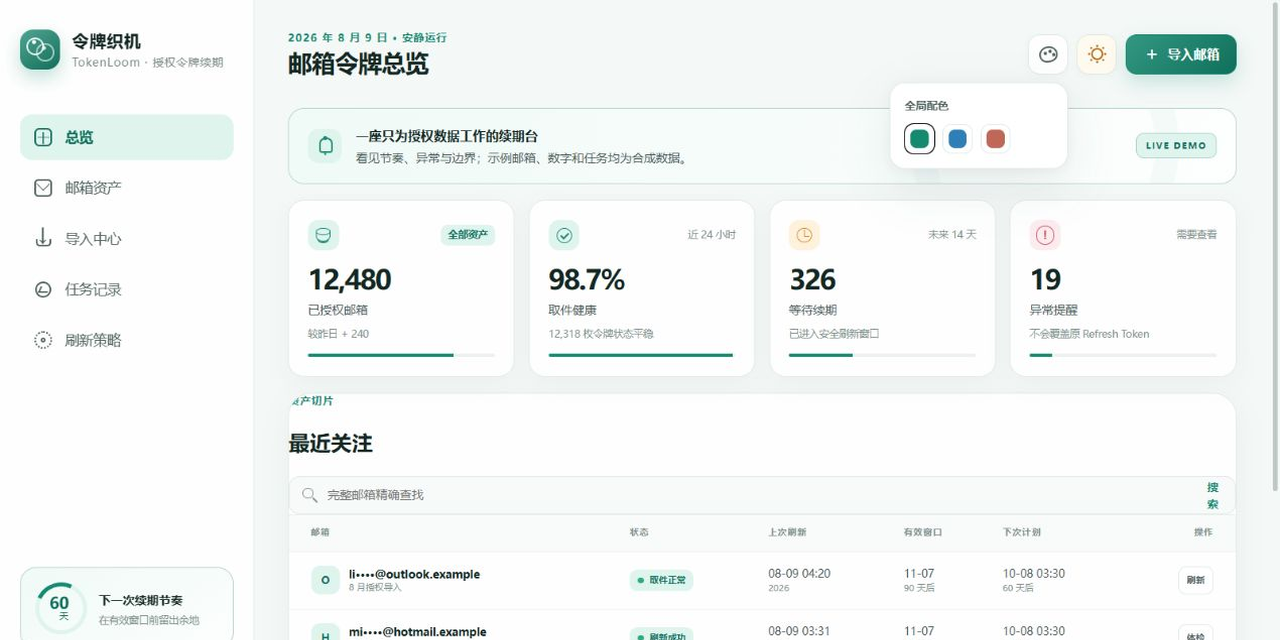
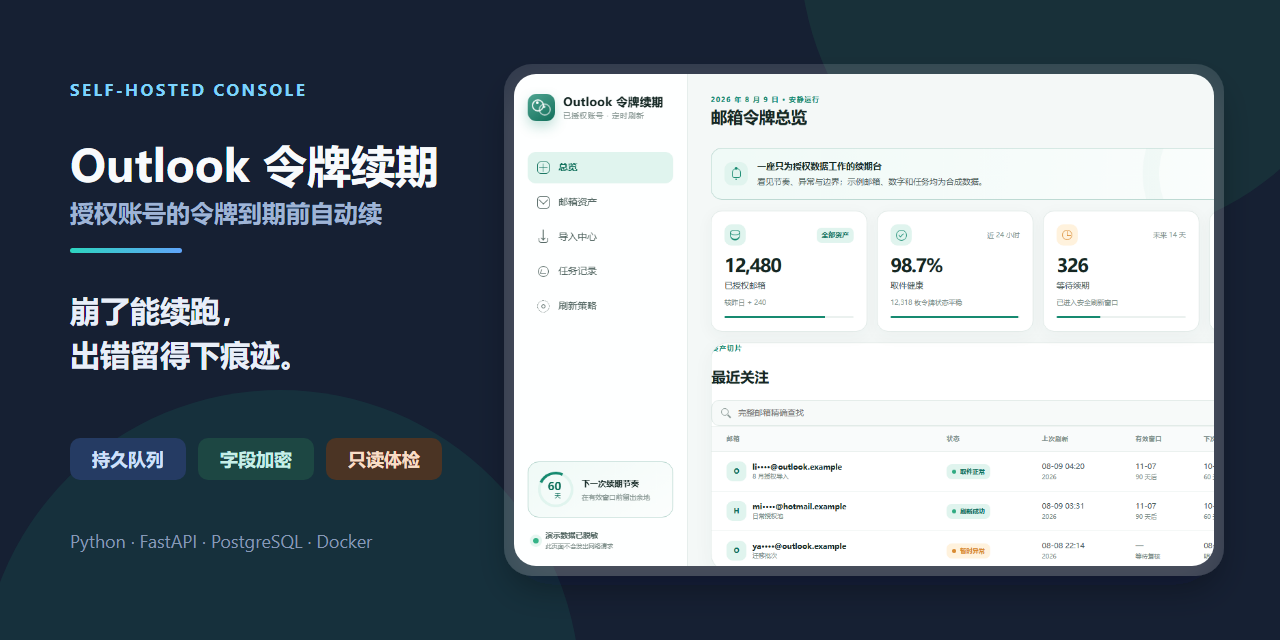
docs: 重写全部面向读者的文案（主页、README、文档措辞与命名）

diff --git a/demo/index.html b/demo/index.html
@@ -6,7 +6,7 @@
   <meta name="color-scheme" content="light dark">
   <meta name="theme-color" content="#168a70">
   <meta http-equiv="Content-Security-Policy" content="default-src 'self'; script-src 'self'; style-src 'self'; img-src 'self' data:; connect-src 'none'; object-src 'none'; base-uri 'none'; frame-ancestors 'none'">
-  <title>令牌织机 · TokenLoom 演示</title>
+  <title>Outlook 令牌续期 · 演示</title>
   <link rel="icon" href="./assets/favicon.svg" type="image/svg+xml">
   <link rel="icon" href="./assets/favicon-32.png" sizes="32x32" type="image/png">
   <link rel="shortcut icon" href="./assets/favicon.ico">
@@ -20,7 +20,7 @@
     <aside class="sidebar" id="sidebar">
       <a class="brand" href="./" aria-label="TokenLoom 演示首页">
         <span class="brand-mark"><i></i><i></i><i></i></span>
-        <span><strong>令牌织机</strong><small>TokenLoom · 授权令牌续期</small></span>
+        <span><strong>Outlook 令牌续期</strong><small>已授权账号 · 定时刷新</small></span>
       </a>
       <nav class="side-nav" aria-label="演示导航">
         <button class="nav-item active" data-demo-action="总览"><span class="nav-icon grid-icon"></span>总览</button>
@@ -83,7 +83,7 @@
           </section>
         </div>
         <aside class="side-column">
-          <section class="panel side-panel"><div class="panel-head"><div><p class="kicker">任务流</p><h2>正在织入</h2></div></div><article class="job-card"><div class="job-card-head"><span class="job-kind">刷</span><div><b>到期账号 · 安全续期</b><small>240 / 326 · 成功 238 · 失败 2</small></div><span class="job-state running">进行中</span></div><progress class="job-progress" max="100" value="73.6"></progress><div class="job-stats"><span>73.6%</span><span>预计 2 分钟</span></div></article><article class="job-card"><div class="job-card-head"><span class="job-kind">检</span><div><b>授权样本 · 只读取件</b><small>40 / 40 · 成功 40</small></div><span class="job-state completed">已完成</span></div><progress class="job-progress" max="100" value="100"></progress></article></section>
+          <section class="panel side-panel"><div class="panel-head"><div><p class="kicker">任务流</p><h2>正在执行</h2></div></div><article class="job-card"><div class="job-card-head"><span class="job-kind">刷</span><div><b>到期账号 · 安全续期</b><small>240 / 326 · 成功 238 · 失败 2</small></div><span class="job-state running">进行中</span></div><progress class="job-progress" max="100" value="73.6"></progress><div class="job-stats"><span>73.6%</span><span>预计 2 分钟</span></div></article><article class="job-card"><div class="job-card-head"><span class="job-kind">检</span><div><b>授权样本 · 只读取件</b><small>40 / 40 · 成功 40</small></div><span class="job-state completed">已完成</span></div><progress class="job-progress" max="100" value="100"></progress></article></section>
         </aside>
       </section>
       <p class="demo-footnote">TokenLoom 与 Microsoft 无隶属或背书关系。仅用于你拥有或明确获授权管理的账号与令牌。</p>

diff --git a/app/templates/login.html b/app/templates/login.html
@@ -23,7 +23,7 @@
   <div class="login-aurora login-aurora-b"></div>
   <main class="login-shell">
     <section class="login-story" aria-label="产品介绍">
-      <a class="brand brand-large" href="/login" aria-label="令牌织机 TokenLoom">
+      <a class="brand brand-large" href="/login" aria-label="Outlook 令牌续期">
         <span class="brand-mark"><i></i><i></i><i></i></span>
         <span><strong>{{ app_name }}</strong><small>Authorized token renewal, woven calmly</small></span>
       </a>

diff --git a/app/config.py b/app/config.py
@@ -35,7 +35,7 @@ def _csv(name: str, default: str) -> frozenset[str]:
 @dataclass(frozen=True, slots=True)
 class Settings:
     app_env: str = os.getenv("APP_ENV", "development").strip().lower()
-    app_name: str = os.getenv("APP_NAME", "令牌织机 · TokenLoom")
+    app_name: str = os.getenv("APP_NAME", "Outlook 令牌续期")
     database_url: str = os.getenv(
         "DATABASE_URL", f"sqlite+aiosqlite:///{(BASE_DIR / 'data' / 'dev.db').as_posix()}"
     )

diff --git a/app/services.py b/app/services.py
@@ -21,7 +21,7 @@ from .models import Account, AppSetting, AuditEvent, Job, utcnow
 
 TOKEN_URL = "https://login.live.com/oauth20_token.srf"
 REDIRECT_URI = "https://login.live.com/oauth20_desktop.srf"
-USER_AGENT = "TokenLoom/1.0 (+https://github.com/ferretgeek/TokenLoom)"
+USER_AGENT = "TokenLoom/1.0 (+https://github.com/ferretgeek/outlook-token-keeper)"
 MAX_OAUTH_RESPONSE_BYTES = 64 * 1024
 PERMANENT_ERRORS = {
     "invalid_grant",

diff --git a/README_EN.md b/README_EN.md
@@ -1,30 +1,40 @@
-# TokenLoom / 令牌织机 — Outlook OAuth Token Renewal
+# Outlook token keeper
 
-[![CI](https://github.com/ferretgeek/TokenLoom/actions/workflows/ci.yml/badge.svg)](https://github.com/ferretgeek/TokenLoom/actions/workflows/ci.yml)
-[![CodeQL](https://github.com/ferretgeek/TokenLoom/actions/workflows/codeql.yml/badge.svg)](https://github.com/ferretgeek/TokenLoom/actions/workflows/codeql.yml)
-[![Release](https://img.shields.io/github/v/release/ferretgeek/TokenLoom?style=flat-square)](https://github.com/ferretgeek/TokenLoom/releases)
+[中文](README.md) · English
+
+[![CI](https://github.com/ferretgeek/outlook-token-keeper/actions/workflows/ci.yml/badge.svg)](https://github.com/ferretgeek/outlook-token-keeper/actions/workflows/ci.yml)
+[![CodeQL](https://github.com/ferretgeek/outlook-token-keeper/actions/workflows/codeql.yml/badge.svg)](https://github.com/ferretgeek/outlook-token-keeper/actions/workflows/codeql.yml)
+[![Release](https://img.shields.io/github/v/release/ferretgeek/outlook-token-keeper?style=flat-square)](https://github.com/ferretgeek/outlook-token-keeper/releases)
 [![License: MIT](https://img.shields.io/badge/License-MIT-168a70.svg?style=flat-square)](LICENSE)
 
-> Weave authorized token renewal, health checks, and exceptions into one visible rhythm.
+[![Interface preview](docs/images/dashboard.png)](https://ferretgeek.github.io/outlook-token-keeper/)
 
-[![TokenLoom interface preview](docs/images/dashboard.png)](https://ferretgeek.github.io/TokenLoom/)
+[Live demo](https://ferretgeek.github.io/outlook-token-keeper/) · [Deployment](docs/DEPLOYMENT_EN.md) · [Security policy](SECURITY.md)
 
-[Live demo](https://ferretgeek.github.io/TokenLoom/) · [中文](README.md) · [Deployment](docs/DEPLOYMENT_EN.md) · [Security](SECURITY.md)
+> Renew a batch of authorized Outlook OAuth tokens before they expire, and verify read-only that the mailboxes still connect.
 
-TokenLoom is a self-hosted console for managing user-authorized Microsoft Outlook / Hotmail OAuth2 refresh tokens. It neither supplies accounts or tokens nor bypasses Microsoft authorization, risk controls, or terms.
+## Why this exists
 
-## What it does
+Microsoft OAuth refresh tokens don't last forever: leave one unused long enough and it lapses, and certain account-side changes invalidate it too.
 
-- Streams pasted or TXT imports into durable PostgreSQL jobs that survive worker restarts.
-- Renews one, selected, due, or snapshotted account ranges and runs read-only IMAP XOAUTH2 health checks.
-- Immediately discards the legacy password field; encrypts email, Client ID, and Refresh Token with AES-256-GCM bound to the account identity and field name; exposes masked addresses only. Legacy ciphertexts are upgraded in bounded startup batches.
-- Uses fixed Microsoft OAuth and IMAP destinations, bounded response and input sizes, keyset pagination, batch processing, disk headroom, and retention cleanup.
-- Authenticates protected mutation requests and enforces route-specific body limits before JSON, form, or multipart parsing; login attempts are atomically reserved before Argon2 work.
-- Provides jade, sky, sunset, and exact `#17191d` graphite themes, persisted globally across login and console views.
+With one or two accounts you just click renew. With dozens or hundreds of **explicitly authorized** accounts it's a different problem — you need to know which are expiring, which already failed, and which renewed successfully but whose mailbox no longer connects. And it has to run on a schedule, resume after a crash, and leave a trail when something goes wrong.
 
-## Local QA
+This is that schedule: **import, renew on a timer, health-check read-only, and record exceptions** — all on your own server.
 
-Python 3.11+ is required:
+> **Use it only for accounts and tokens you own or are explicitly authorized to administer.** It doesn't harvest accounts, doesn't supply tokens, and doesn't bypass Microsoft's authorization, risk controls, or terms.
+
+## What you get
+
+- **A recoverable workflow** — streaming TXT import, durable PostgreSQL job queue, single / selected / expiring-range job modes, and workers that resume after restart.
+- **A restrained data plane** — legacy plaintext mailbox passwords are **discarded immediately** after parsing; addresses, client IDs, and refresh tokens are AES-256-GCM encrypted, and lists show masked addresses only.
+- **Real but bounded checks** — refresh against fixed Microsoft OAuth endpoints; IMAP XOAUTH2 opens the inbox read-only and **never reads or displays message bodies.**
+- **Built for large sets** — primary-key cursor paging, job snapshots, batching, upload / line / response ceilings, free-disk checks, and history cleanup.
+- **Security checks up front** — write endpoints validate session and CSRF **before parsing the body** and cap request size per endpoint; login attempts are atomically reserved, and the expensive hash has a process-wide concurrency limit.
+- **Four global themes** — Emerald, Azure, Sunset, and exact `#17191d` graphite, persisted across the login screen and the console.
+
+## Local preview
+
+Requires Python 3.11+:
 
 ```powershell
 python -m venv .venv
@@ -32,16 +42,18 @@ python -m venv .venv
 .\.venv\Scripts\python scripts\run_qa.py
 ```
 
-Open `http://127.0.0.1:8787/`. The temporary admin key is written only to the ignored `data/qa-*-admin-key.txt` path. Stop and clean the local run with:
+Open `http://127.0.0.1:8787/`. The temporary admin key is written only to a git-ignored `data/qa-*-admin-key.txt`.
+
+Clean up afterwards:
 
 ```powershell
 .\.venv\Scripts\python scripts\stop_qa.py
 .\.venv\Scripts\python scripts\cleanup_qa.py
 ```
 
-## Docker Compose
+## Docker deployment
 
-Generate secrets on a trusted machine, then start the loopback-bound web app, worker, and PostgreSQL services:
+Generate the admin key and `.env` on a trusted machine first, then start the loopback-bound web, worker, and PostgreSQL services:
 
 ```powershell
 .\.venv\Scripts\python scripts\generate_admin_key.py --output .\admin-key.txt
@@ -49,15 +61,34 @@ Generate secrets on a trusted machine, then start the loopback-bound web app, wo
 docker compose up -d --build
 ```
 
-Visit `http://127.0.0.1:8787/`. A public deployment must sit behind a trusted HTTPS reverse proxy and set `COOKIE_SECURE`, `TRUST_PROXY_HEADERS`, `TRUSTED_PROXY_IPS`, and `ALLOWED_HOSTS` explicitly. See [Deployment](docs/DEPLOYMENT_EN.md) for Docker and Ubuntu systemd instructions.
+Then open `http://127.0.0.1:8787/`.
 
-## Security boundary
+**A public server must sit behind a trusted HTTPS reverse proxy**, with `COOKIE_SECURE`, `TRUST_PROXY_HEADERS`, `TRUSTED_PROXY_IPS`, and `ALLOWED_HOSTS` set to match. The Ubuntu 24.04 systemd setup, updates, and backups are covered in the [deployment guide](docs/DEPLOYMENT_EN.md).
 
-TokenLoom reduces exposure from a database-only leak, but it cannot protect data after the host or application process is compromised. Keep the field-encryption key separate from database backups, use one worker, rotate the session secret to revoke every session, and never put production data in tests or screenshots.
+## Worth noting technically
 
-Use the project only for accounts and tokens you own or are explicitly authorized to administer. TokenLoom is independent of and not endorsed by Microsoft.
+**Encryption binds identity and field name.** Account ciphertexts use "account identity + field name" as authenticated context (AEAD AAD) — so even with database access, nobody can move account A's ciphertext into account B's field and have it accepted. Legacy ciphertexts are upgraded in **bounded startup batches** rather than pulling the whole table into memory.
 
-## Quality gate
+**Legacy plaintext passwords are discarded immediately.** When an import carries a mailbox password from an old format, it's dropped right after parsing — never stored, never logged. This project only wants refresh tokens.
+
+**There is no configurable outbound target.** OAuth and IMAP destinations are pinned to Microsoft endpoints. A tool that can be configured to send your tokens somewhere arbitrary is a backdoor.
+
+**Security checks come before body parsing.** Write endpoints validate the session and CSRF, cap request size per endpoint, and **then** parse. In the other order, one unauthenticated large request could consume your memory.
+
+**Login attempts are atomically reserved.** Counters reserve atomically to prevent concurrent rate-limit bypass, and the expensive password hash has a process-wide concurrency limit so the login endpoint can't be used to saturate the CPU.
+
+**Paging designed for millions of rows.** Lists use primary-key cursor paging rather than `OFFSET`, jobs carry snapshots, imports are batched, and upload size, line length, and response size all have ceilings, alongside free-disk checks and periodic history cleanup.
+
+Architecture and capacity boundaries are in [docs/ARCHITECTURE.md](docs/ARCHITECTURE.md); privacy boundaries in [PRIVACY.md](PRIVACY.md).
+
+## What it doesn't do
+
+- It doesn't harvest accounts, supply tokens, or obtain authorization on your behalf.
+- It doesn't bypass Microsoft's authorization, risk controls, or terms.
+- It doesn't read, store, or display message bodies (the health check only confirms the inbox can be opened).
+- It neither accepts nor retains mailbox passwords.
+
+## Pre-release checks
 
 ```powershell
 .\.venv\Scripts\python -m ruff format --check app scripts tests
@@ -66,8 +97,12 @@ Use the project only for accounts and tokens you own or are explicitly authorize
 .\.venv\Scripts\python -m pip_audit -r requirements.txt --progress-spinner off
 ```
 
-See [Privacy](PRIVACY.md), [Architecture](docs/ARCHITECTURE.md), and [Security](SECURITY.md) for the exact data and operational boundaries.
+## More documentation
 
-## License
+[Deployment](docs/DEPLOYMENT_EN.md) · [Architecture and capacity](docs/ARCHITECTURE.md) · [Privacy](PRIVACY.md) · [Release audit](docs/发布审计.md) · [Changelog](CHANGELOG.md) · [Contributing](CONTRIBUTING.md) · [Security policy](SECURITY.md)
+
+## License and disclaimer
 
 [MIT](LICENSE). Direct dependency licenses are summarized in [THIRD_PARTY.md](THIRD_PARTY.md).
+
+Independent project with no affiliation with, authorization from, or endorsement by Microsoft.

diff --git a/README.md b/README.md
@@ -1,27 +1,36 @@
-# 令牌织机 / TokenLoom — Outlook OAuth 令牌续期
+# Outlook 令牌续期
 
-[![CI](https://github.com/ferretgeek/TokenLoom/actions/workflows/ci.yml/badge.svg)](https://github.com/ferretgeek/TokenLoom/actions/workflows/ci.yml)
-[![CodeQL](https://github.com/ferretgeek/TokenLoom/actions/workflows/codeql.yml/badge.svg)](https://github.com/ferretgeek/TokenLoom/actions/workflows/codeql.yml)
-[![Release](https://img.shields.io/github/v/release/ferretgeek/TokenLoom?style=flat-square)](https://github.com/ferretgeek/TokenLoom/releases)
+中文 · [English](README_EN.md)
+
+[![CI](https://github.com/ferretgeek/outlook-token-keeper/actions/workflows/ci.yml/badge.svg)](https://github.com/ferretgeek/outlook-token-keeper/actions/workflows/ci.yml)
+[![CodeQL](https://github.com/ferretgeek/outlook-token-keeper/actions/workflows/codeql.yml/badge.svg)](https://github.com/ferretgeek/outlook-token-keeper/actions/workflows/codeql.yml)
+[![Release](https://img.shields.io/github/v/release/ferretgeek/outlook-token-keeper?style=flat-square&label=%E7%89%88%E6%9C%AC)](https://github.com/ferretgeek/outlook-token-keeper/releases)
 [![License: MIT](https://img.shields.io/badge/License-MIT-168a70.svg?style=flat-square)](LICENSE)
 
-> 把授权令牌的续期、体检与异常，织成一张看得见的时间表。<br />
-> Weave authorized token renewal, health checks, and exceptions into one visible rhythm.
+[![界面预览](docs/images/dashboard.png)](https://ferretgeek.github.io/outlook-token-keeper/)
 
-[![TokenLoom 界面预览 / interface preview](docs/images/dashboard.png)](https://ferretgeek.github.io/TokenLoom/)
+[在线演示](https://ferretgeek.github.io/outlook-token-keeper/) · [部署指南](docs/DEPLOYMENT.md) · [安全策略](SECURITY.md)
 
-[在线演示](https://ferretgeek.github.io/TokenLoom/) · [English](README_EN.md) · [部署指南](docs/DEPLOYMENT.md) · [安全策略](SECURITY.md)
+> 一批授权过的 Outlook 账号，令牌到期前自动续，并只读验证邮箱还连得上。
 
-TokenLoom 是一个自托管的 Microsoft Outlook / Hotmail OAuth2 Refresh Token 管理台。它面向你拥有或明确获授权管理的账号；不采集账号，不提供令牌，也不会绕过 Microsoft 的授权、风控或服务条款。
+## 为什么会需要它
+
+Microsoft 的 OAuth refresh token 不是永久有效的：长期不用会失效，账号侧的一些变动也会让它作废。
+
+如果你只管一两个账号，到期手动点一下就行。如果你管着几十上百个**已获明确授权**的账号，情况就不一样了——你需要知道哪些快到期、哪些已经失效、哪些续成功了但邮箱其实连不上，而且这件事得自动做、崩了能续跑、出错要留痕。
+
+这个工具就是那张时间表：**导入、定时续期、只读体检、异常记录**，全部在你自己的服务器上。
+
+> **请只用它管理你拥有或已获明确授权管理的账号。** 它不采集账号、不提供令牌，也不绕过 Microsoft 的授权、风控或服务条款。
 
 ## 你会看到什么
 
-- **可恢复的工作流：** 流式 TXT 导入、PostgreSQL 持久队列、单账号/所选/到期范围任务，以及 Worker 重启续跑。
-- **克制的数据面：** 旧格式中的邮箱密码解析后立即丢弃；邮箱、Client ID 与 Refresh Token 使用 AES-256-GCM 加密，列表只展示脱敏邮箱。
-- **真实但有边界的检查：** 固定 Microsoft OAuth 端点刷新；IMAP XOAUTH2 只读打开收件箱，不读取或展示邮件正文。
-- **百万级路径意识：** 主键游标分页、任务快照、批处理、上传/单行/响应上限、磁盘余量与历史清理。
-- **前置安全门禁：** 写接口在解析正文前验证会话与 CSRF，并按入口限制请求体；登录尝试原子预留且昂贵哈希具有进程级并发上限。
-- **四套全局主题：** 翡翠、天青、晚霞和 `#17191d` 深灰；右上角切换，登录页与控制台同步保存。
+- **可恢复的工作流** — 流式 TXT 导入、PostgreSQL 持久队列、单账号 / 所选 / 到期范围三种任务，以及 Worker 重启后续跑。
+- **克制的数据面** — 旧格式里的邮箱密码解析后**立即丢弃**；邮箱、Client ID 与 Refresh Token 用 AES-256-GCM 加密，列表只显示脱敏邮箱。
+- **真实但有边界的检查** — 固定 Microsoft OAuth 端点刷新；IMAP XOAUTH2 只读打开收件箱，**不读取也不展示邮件正文**。
+- **想到了百万级** — 主键游标分页、任务快照、批处理、上传 / 单行 / 响应上限、磁盘余量检查与历史清理。
+- **前置安全门禁** — 写接口在**解析正文之前**先验证会话与 CSRF，并按入口限制请求体；登录尝试原子预留，昂贵哈希有进程级并发上限。
+- **四套全局主题** — 翡翠、天青、晚霞和 `#17191d` 深灰；右上角切换，登录页与控制台同步保存。
 
 ## 本机预览
 
@@ -33,7 +42,9 @@ python -m venv .venv
 .\.venv\Scripts\python scripts\run_qa.py
 ```
 
-打开 `http://127.0.0.1:8787/`。临时管理员密钥只写入被 Git 忽略的 `data/qa-*-admin-key.txt`；结束后运行：
+打开 `http://127.0.0.1:8787/`。临时管理员密钥只写入被 Git 忽略的 `data/qa-*-admin-key.txt`。
+
+结束后清理：
 
 ```powershell
 .\.venv\Scripts\python scripts\stop_qa.py
@@ -42,7 +53,7 @@ python -m venv .venv
 
 ## Docker 部署
 
-先在可信电脑生成管理员密钥和 `.env`，再启动只绑定回环地址的 Web、Worker 与 PostgreSQL：
+先在可信电脑上生成管理员密钥和 `.env`，再启动只绑定回环地址的 Web、Worker 与 PostgreSQL：
 
 ```powershell
 .\.venv\Scripts\python scripts\generate_admin_key.py --output .\管理员密钥.txt
@@ -50,7 +61,32 @@ python -m venv .venv
 docker compose up -d --build
 ```
 
-浏览器访问 `http://127.0.0.1:8787/`。公网服务器必须放在受信任的 HTTPS 反向代理之后，并同步设置 `COOKIE_SECURE`、`TRUST_PROXY_HEADERS`、`TRUSTED_PROXY_IPS` 和 `ALLOWED_HOSTS`。Ubuntu 24.04 的 systemd 方案、更新与备份见[部署指南](docs/DEPLOYMENT.md)。
+浏览器访问 `http://127.0.0.1:8787/`。
+
+**公网服务器必须放在受信任的 HTTPS 反向代理之后**，并同步设置 `COOKIE_SECURE`、`TRUST_PROXY_HEADERS`、`TRUSTED_PROXY_IPS` 和 `ALLOWED_HOSTS`。Ubuntu 24.04 的 systemd 方案、更新与备份见[部署指南](docs/DEPLOYMENT.md)。
+
+## 技术上值得一提的地方
+
+**加密绑定了身份和字段名。** 账号密文把「账号身份 + 字段名」作为认证上下文（AEAD 的 AAD）——这意味着即使有人拿到数据库，也不能把 A 账号的密文搬到 B 账号的字段上冒用。旧格式密文会在启动时按**有界批次**升级，不会一次性把整库拉进内存。
+
+**旧格式里的明文密码立即丢弃。** 导入时如果遇到旧格式携带的邮箱密码，解析完直接丢掉——不入库、不进日志。这个项目只要 refresh token。
+
+**没有可配置的出站目标。** OAuth 和 IMAP 目的地写死为 Microsoft 端点。一个能被配置成"往任意地址发送你的令牌"的工具，就是一个后门。
+
+**安全检查在解析正文之前。** 写接口先验会话和 CSRF、再按入口限制请求体大小，**然后**才开始解析——顺序反过来的话，一个未认证的大请求就能直接消耗你的内存。
+
+**登录尝试是原子预留的。** 计数用原子操作预留，避免并发绕过限速；昂贵的密码哈希有进程级并发上限，防止用登录接口把 CPU 打满。
+
+**为百万行准备的分页。** 列表用主键游标分页（不是 `OFFSET`），任务带快照，导入按批处理，上传大小、单行长度和响应体积都有上限，并会检查磁盘余量、定期清理历史。
+
+架构与容量边界见 [docs/ARCHITECTURE.md](docs/ARCHITECTURE.md)，隐私边界见 [PRIVACY.md](PRIVACY.md)。
+
+## 它不做什么
+
+- 不采集账号，不提供令牌，不代你申请授权。
+- 不绕过 Microsoft 的授权、风控或服务条款。
+- 不读取、不存储、不展示邮件正文（体检只确认能否连上收件箱）。
+- 不接受也不保留邮箱密码。
 
 ## 发布前检查
 
@@ -61,23 +97,12 @@ docker compose up -d --build
 .\.venv\Scripts\python -m pip_audit -r requirements.txt --progress-spinner off
 ```
 
-隐私边界见 [PRIVACY.md](PRIVACY.md)，架构与容量边界见 [docs/ARCHITECTURE.md](docs/ARCHITECTURE.md)。
+## 更多文档
 
----
+[部署指南](docs/DEPLOYMENT.md) · [架构与容量](docs/ARCHITECTURE.md) · [隐私边界](PRIVACY.md) · [发布审计](docs/发布审计.md) · [版本变更](CHANGELOG.md) · [参与开发](CONTRIBUTING.md) · [安全策略](SECURITY.md)
 
-## English
+## 许可与声明
 
-TokenLoom is a self-hosted console for renewing and health-checking user-authorized Microsoft Outlook / Hotmail OAuth2 refresh tokens.
+[MIT](LICENSE)。直接依赖的许可证汇总见 [THIRD_PARTY.md](THIRD_PARTY.md)。
 
-- Durable PostgreSQL jobs survive worker restarts; imports, scheduled renewal, and read-only IMAP checks are bounded and observable.
-- Legacy plaintext passwords are discarded immediately. Required account fields are AES-256-GCM encrypted, while the UI exposes masked addresses only.
-- Account ciphertexts bind the account identity and field name as authenticated context; legacy ciphertexts are upgraded in bounded startup batches.
-- The application has no configurable outbound target: OAuth and IMAP destinations are fixed to Microsoft endpoints.
-- Jade, sky, sunset, and exact `#17191d` graphite themes persist across the login screen and console.
-- Local QA, Docker Compose, and Ubuntu systemd deployments are documented; any public deployment requires trusted HTTPS.
-
-Use TokenLoom only for accounts and tokens you own or are explicitly authorized to administer. It is independent of and not endorsed by Microsoft. See the [full English guide](README_EN.md), [deployment guide](docs/DEPLOYMENT_EN.md), and [security policy](SECURITY.md).
-
-## License
-
-[MIT](LICENSE). Direct dependency licenses are summarized in [THIRD_PARTY.md](THIRD_PARTY.md).
+这是独立项目，与 Microsoft 没有隶属、授权或背书关系。

diff --git a/docs/发布审计.md b/docs/发布审计.md
@@ -1,11 +1,11 @@
-# TokenLoom 发布审计
+# Outlook 令牌续期 · 发布审计
 
 状态：通过。核验日期：2026-08-09。
 
 ## 发布范围
 
 - 来源：私人目录中的既有候选代码，经独立白名单复制；生产数据、部署归档与生产脚本未进入公开副本。
-- 公开仓库：`https://github.com/ferretgeek/TokenLoom`
+- 公开仓库：`https://github.com/ferretgeek/outlook-token-keeper`
 - 稳定版本：`v1.0.1`，提交 `cb00d372bed47f56c3d09336cb0d344c3aa47786`
 - 首个不可变版本：`v1.0.0`，提交 `b4a64706385f792691f6a97180693323b0a95fb1`
 
@@ -26,7 +26,7 @@
 - Python 3.13 与 3.14 均通过 18 项测试；Python 3.14 新鲜环境复跑、Ruff、完整已安装依赖 `pip-audit` 与 Bandit 高危检查通过，未发现已知漏洞或高危结果。
 - Gitleaks 8.28.0 覆盖 4 个可达提交，detect-secrets 1.5.0 覆盖全部非图片跟踪文件；当前树、完整历史、`v1.0.1` 公开新鲜克隆和解压后的 Release 源码均为零未解释结果。
 - `v1.0.1` 公开新鲜克隆含 66 个跟踪文件，唯一提交身份为 `ferretgeek <ferretgeek@users.noreply.github.com>`；18 项测试与 Ruff 在克隆中再次通过。
-- GitHub CI #7（含 Python 3.13/3.14 两个测试作业、Compose 校验和 Python 3.14 Docker 构建）、CodeQL #5 与 Pages #2 在线通过；演示站 `https://ferretgeek.github.io/TokenLoom/` 已从公开地址实际打开。
+- GitHub CI #7（含 Python 3.13/3.14 两个测试作业、Compose 校验和 Python 3.14 Docker 构建）、CodeQL #5 与 Pages #2 在线通过；演示站 `https://ferretgeek.github.io/outlook-token-keeper/` 已从公开地址实际打开。
[2 lines of base64/hex data omitted]
 - 仓库已启用不可变 Release、Secret Protection、Push Protection、依赖图、Dependabot 漏洞/恶意依赖告警、自动与分组安全更新、私密漏洞报告；Wiki 与 Projects 已关闭。

diff --git a/CHANGELOG.md b/CHANGELOG.md
@@ -8,7 +8,7 @@
 
 ## 1.0.0 - 2026-08-09
 
-- First public TokenLoom release.
+- First public release.
 - Durable import, renewal, and read-only IMAP health-check jobs.
 - AES-256-GCM field encryption, HMAC lookup, masked UI, CSRF protection, trusted-host checks, and no weak development secrets.
 - Responsive console, three light palettes, exact `#17191d` graphite mode, SVG/PNG/ICO favicon, synthetic demo, Docker Compose, and systemd deployment.

diff --git a/AGENTS.md b/AGENTS.md
@@ -1,4 +1,4 @@
-# TokenLoom project rules
+# Outlook token keeper — project rules
 
 - Read the workspace root `README.md`, this file, and the project README before changing the project.
 - Never add real accounts, email addresses, passwords, Client IDs, refresh/access tokens, server addresses, deployment identities, databases, logs, import files, screenshots, or environment files.

diff --git a/docs/DEPLOYMENT_EN.md b/docs/DEPLOYMENT_EN.md
@@ -1,4 +1,4 @@
-# TokenLoom deployment
+# Outlook token keeper — deployment
 
 Every runtime mode requires a valid Argon2id admin-key hash, session secret, and 32-byte field-encryption key. There are no usable default secrets. A public endpoint must use trusted HTTPS, while the application remains bound to loopback or a private container network.
 

diff --git a/docs/DEPLOYMENT.md b/docs/DEPLOYMENT.md
@@ -1,4 +1,4 @@
-# TokenLoom 部署指南
+# Outlook 令牌续期 · 部署指南
 
 所有运行模式都必须提供有效的管理员 Argon2id 哈希、会话密钥和 32 字节字段加密密钥；项目没有可用的默认密钥。公网入口必须使用受信任 HTTPS，Web 进程只应监听本机或容器私网。
 

diff --git a/PRIVACY.md b/PRIVACY.md
@@ -1,4 +1,4 @@
-# TokenLoom 隐私与公开发布清单
+# 隐私与公开发布清单
 
 本目录按源码白名单生成，不是对生产目录的完整复制。
 
